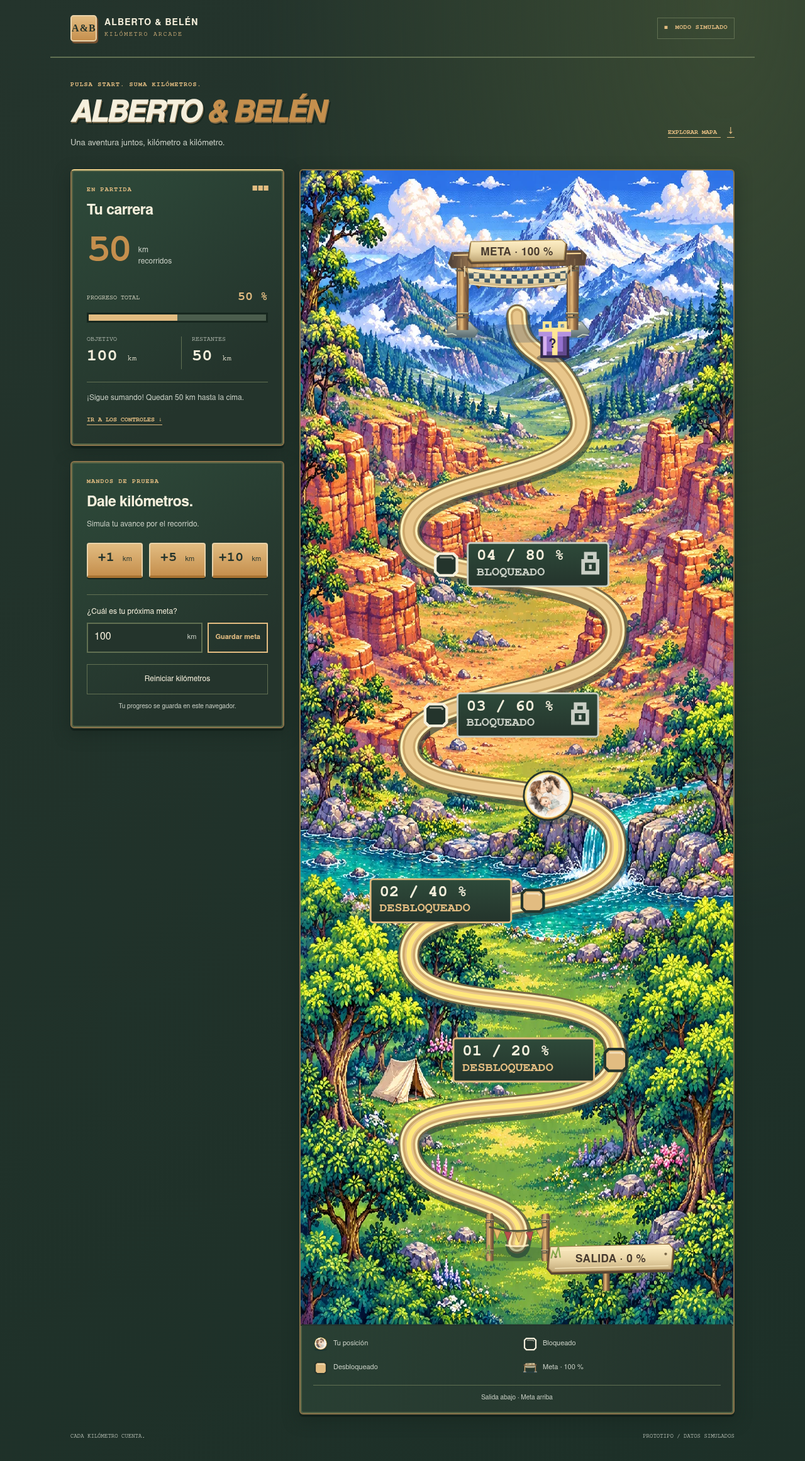
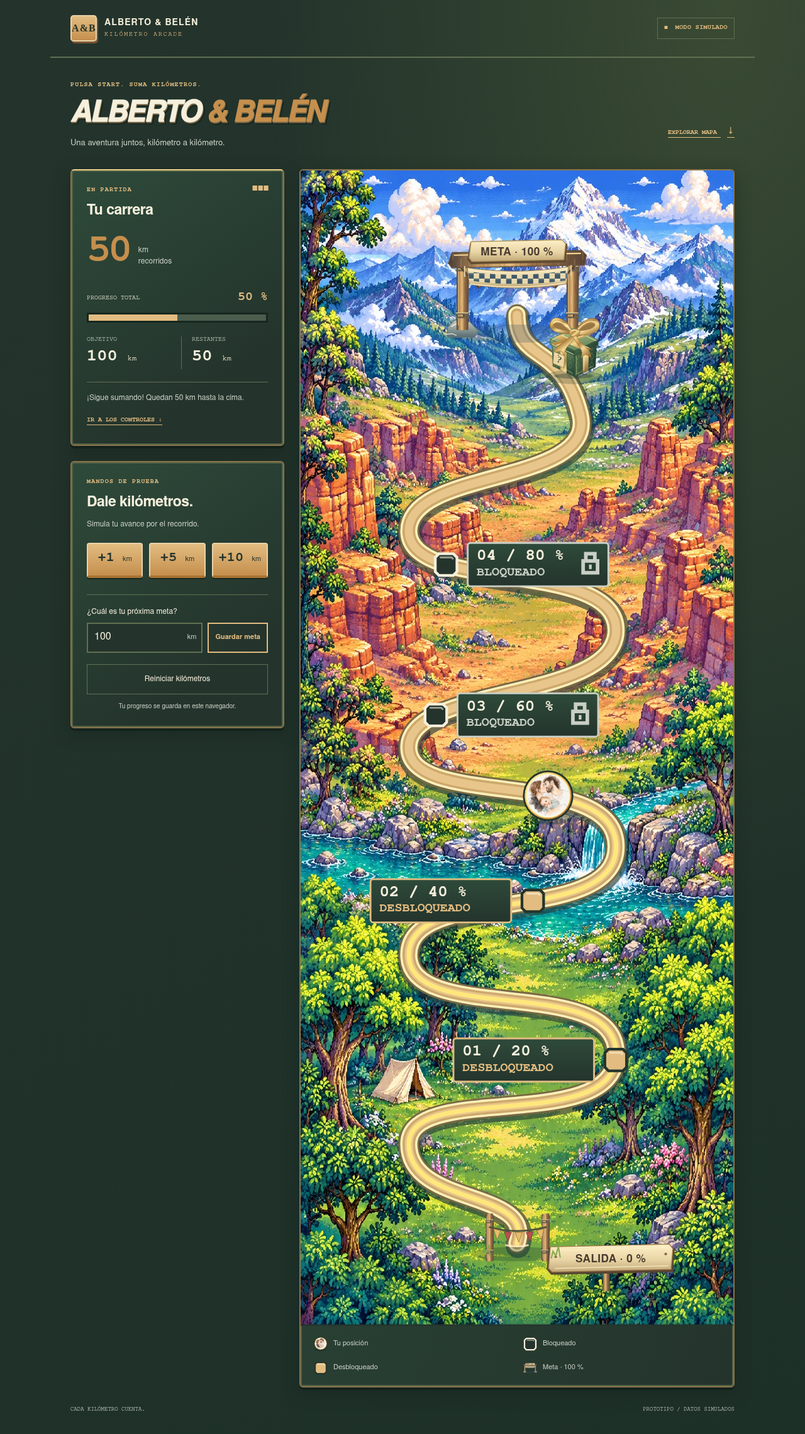
style: enrich mystery gift and simplify map legend

diff --git a/frontend/index.html b/frontend/index.html
@@ -32,6 +32,11 @@
             <linearGradient id="gate-cloth" x2="0" y2="1"><stop stop-color="#fff0c7"/><stop offset=".55" stop-color="#e9d5a6"/><stop offset="1" stop-color="#c1a878"/></linearGradient>
             <pattern id="wood-grain" width="18" height="28" patternUnits="userSpaceOnUse"><path d="M3 0v8l2 6v14M12 0v12l-2 7v9" fill="none" stroke="#493d37" stroke-opacity=".3" stroke-width=".8"/><path d="M7 3v12M16 14v10" stroke="#ffe2a1" stroke-opacity=".3" stroke-width=".7"/></pattern>
             <pattern id="finish-weave" width="12" height="12" patternUnits="userSpaceOnUse"><rect width="12" height="12" fill="#e8d8af"/><path d="M0 0h6v6H0zM6 6h6v6H6z" fill="#405966"/><path d="M0 1h12M0 7h12" stroke="#fff5d6" stroke-opacity=".25" stroke-width=".7"/></pattern>
+            <linearGradient id="gift-front" x2=".25" y2="1"><stop stop-color="#8caa6d"/><stop offset=".45" stop-color="#567b50"/><stop offset="1" stop-color="#2b4b39"/></linearGradient>
+            <linearGradient id="gift-side" x2="1" y2=".6"><stop stop-color="#55754c"/><stop offset="1" stop-color="#203c30"/></linearGradient>
+            <linearGradient id="gift-top" x2=".6" y2="1"><stop stop-color="#bbca8f"/><stop offset="1" stop-color="#648559"/></linearGradient>
+            <linearGradient id="gift-ribbon" x2=".75" y2="1"><stop stop-color="#fff2bc"/><stop offset=".25" stop-color="#e4bd70"/><stop offset=".45" stop-color="#b18440"/><stop offset=".65" stop-color="#f5d993"/><stop offset="1" stop-color="#9b7139"/></linearGradient>
+            <pattern id="gift-brocade" width="8" height="10" patternUnits="userSpaceOnUse"><path d="m4 1 2 4-2 4-2-4z" fill="none" stroke="#e1d797" stroke-width=".5" opacity=".3"/><circle cx="0" cy="0" r=".65" fill="#e1d797" opacity=".4"/></pattern>
             <g id="timber-post"><path d="M-7 0 4-2 7 3 6 80H-7z" fill="url(#gate-timber)"/><path d="M-7 0 4-2 7 3 6 80H-7z" fill="url(#wood-grain)"/><path d="M-5 3v72" stroke="#f9d392" stroke-width="1" opacity=".65"/><path d="M-8 10H7m-15 4H7m-15 48H7m-15 4H7" stroke="#6a6350" stroke-width="2"/><path d="M-8 9H6m-14 52H6" stroke="#e1cf99" stroke-width="1"/><circle cx="1" cy="12" r="1" fill="#403a32"/><circle cx="1" cy="64" r="1" fill="#403a32"/></g>
             <g id="lock"><path d="M-5-3v-7H5v7M-8-2H8v13H-8z" fill="none" stroke="currentColor" stroke-width="4"/><path d="M0 2v5" stroke="currentColor" stroke-width="3"/></g>
             <clipPath id="position-clip" clipPathUnits="userSpaceOnUse"><circle r="24"/></clipPath>
@@ -94,16 +99,38 @@
               <path d="M182 106v12m118-13v12" stroke="#dfcba2" stroke-width="1.5"/>
               <path d="m160 182 8-1 5 2m134 2 6-3 7 1" fill="none" stroke="#d9e0cc" stroke-width="1"/>
             </g>
-            <g id="mystery-gift" transform="translate(282 188)">
-              <ellipse cy="20" rx="20" ry="5" fill="#12233a" opacity=".4"/>
-              <path d="M-16-12h32v32h-32z" fill="#30294c"/>
-              <path d="M-13-8h26v25h-26z" fill="#9471ce"/>
-              <path d="M-13-8h4v25h-4zM-9-8h22v4H-9z" fill="#d5b0f0"/>
-              <path d="M9-4h4v21H9zM-9 13H9v4H-9z" fill="#62498d"/>
-              <path d="M-18-12h36v8h-36z" fill="#b392e0"/>
-              <path d="M-18-12h36v3h-36zM-3-12h6v29h-6z" fill="#ffe694"/>
-              <path d="M-3-12h-9v-7h7v7H5v-7h7v7H3" fill="none" stroke="#ffe694" stroke-width="3"/>
-              <text x="-7" y="9" fill="#30294c" font-size="14" font-weight="bold">?</text>
+            <g id="mystery-gift" transform="translate(303 201)">
+              <ellipse cy="28" rx="31" ry="8" fill="#253b30" opacity=".25"/>
+              <ellipse cy="27" rx="22" ry="3" fill="#1b3028" opacity=".35"/>
+              <!-- Papel con tres caras, brocado y pliegues; el regalo permanece cerrado. -->
+              <path d="m-24-11 25 12v27l-24-12z" fill="url(#gift-front)" stroke="#3d5940" stroke-width=".7"/>
+              <path d="M1 1 25-10 24 17 1 28z" fill="url(#gift-side)" stroke="#294633" stroke-width=".7"/>
+              <path d="m-24-11 25 12v27l-24-12zM1 1 25-10 24 17 1 28z" fill="url(#gift-brocade)"/>
+              <path d="m-21-6 1 20 19 10M3 4v21l18-9" fill="none" stroke="#b5c88a" stroke-width=".65" opacity=".65"/>
+              <path d="m-22 12 6-2M19 15l4-6M-20-5l6 5" stroke="#253f30" stroke-width=".8" opacity=".4"/>
+              <path d="m-15-7 7 3v28l-7-4zM10-3l7-4-1 28-6 3z" fill="url(#gift-ribbon)"/>
+              <path d="M-13-5v24M12-3l-1 24" stroke="#fff0b4" stroke-width=".7" opacity=".85"/>
+              <path d="m-26-14 26-12 27 13L1-1z" fill="url(#gift-top)" stroke="#69815a" stroke-width=".7"/>
+              <path d="m-26-14 27 13v6L-26-8z" fill="url(#gift-front)" stroke="#476342" stroke-width=".6"/>
+              <path d="M1-1 27-13v6L1 5z" fill="url(#gift-side)" stroke="#37543a" stroke-width=".6"/>
+              <path d="m-24-13 24-11 25 12M-24-8 0 3" fill="none" stroke="#d9dda1" stroke-width=".8"/>
+              <path d="m-21-16 7-3L20-3l-7 3zM-19-6l-6-3L13-22l7 3z" fill="url(#gift-ribbon)"/>
+              <path d="m-13-18 30 14M-19-7 16-20" stroke="#fff1b4" stroke-width=".7"/>
+              <path d="M-1-20C-10-9-20-8-22 1l8-2 4 6c-1-11 7-13 13-22" fill="url(#gift-ribbon)" stroke="#9c793d" stroke-width=".6"/>
+              <path d="M2-20C7-6 19-5 19 6l-6-3-5 4c5-10-7-15-9-25" fill="url(#gift-ribbon)" stroke="#9c793d" stroke-width=".6"/>
+              <path d="M0-20C-12-19-29-21-26-32c4-12 20-3 26 12Z" fill="url(#gift-ribbon)" stroke="#96733c" stroke-width=".7"/>
+              <path d="M-4-22c-9-2-18-3-19-8 4-5 13 0 19 8Z" fill="#9b7843"/>
+              <path d="M-23-31c4-6 15 0 20 8" fill="none" stroke="#fff1bd" stroke-width="1"/>
+              <path d="M0-20c6-14 24-23 28-12 4 12-16 16-28 12Z" fill="url(#gift-ribbon)" stroke="#96733c" stroke-width=".7"/>
+              <path d="M5-23c6-7 16-11 19-7-1 5-11 7-19 7Z" fill="#987644"/>
+              <path d="M5-25c6-7 15-11 20-7" fill="none" stroke="#fff1bd" stroke-width="1"/>
+              <ellipse cx="1" cy="-21" rx="6" ry="4" fill="url(#gift-ribbon)" stroke="#aa8344" stroke-width=".6" transform="rotate(-12 1 -21)"/>
+              <path d="M-3-23q4-2 7 0" fill="none" stroke="#fff3bd" stroke-width="1"/>
+              <path d="M-11-7q-6 2-6 8" fill="none" stroke="#d3af6a" stroke-width=".65"/>
+              <path d="m-22 0 12 5-1 13-12-5z" fill="#ecd6a3" stroke="#9a804b" stroke-width=".6"/>
+              <path d="m-21 2 9 4" stroke="#fff2d1" stroke-width=".6"/>
+              <circle cx="-17" cy="4" r=".8" fill="#967646"/>
+              <text x="-17" y="12" text-anchor="middle" fill="#43513a" font-family="Georgia, serif" font-size="10" font-weight="bold" transform="rotate(18 -17 12)">?</text>
             </g>
           </g>
           <g id="checkpoints">
@@ -122,7 +149,6 @@
             <li><svg class="legend-icon legend-unlocked" viewBox="-16 -16 32 32" aria-hidden="true"><use href="#checkpoint-symbol"/></svg><span>Desbloqueado</span></li>
             <li><svg class="legend-icon" viewBox="154 70 174 124" aria-hidden="true"><use href="#finish-gate"/></svg><span>Meta · 100 %</span></li>
           </ul>
-          <p class="map-orientation">Salida abajo · Meta arriba</p>
         </div>
       </section>
       <section class="progress-card" aria-labelledby="progress-heading">

diff --git a/frontend/css/style.css b/frontend/css/style.css
@@ -75,7 +75,6 @@ progress::-moz-progress-bar { background: var(--accent); }
 .map-legend { display: grid; grid-template-columns: repeat(2, minmax(0, 1fr)); gap: 12px 18px; list-style: none; margin: 0; padding: 0; }
 .map-legend li { display: flex; align-items: center; gap: 8px; }
 .legend-icon { display: block; width: 24px; height: 26px; flex-shrink: 0; }
-.map-orientation { border-top: 1px solid var(--line); padding-top: 12px; margin: 14px 0 0; text-align: center; font-size: 10px; }
 .simulation-card { grid-area: sim; padding: 24px; background: linear-gradient(145deg, #2e4a3a, #24342c 75%); }
 .simulation-card .eyebrow { color: var(--accent); }
 .hint { color: var(--muted); font-size: 12px; line-height: 1.6; margin: 10px 0 18px; }

diff --git a/README.md b/README.md
@@ -38,12 +38,12 @@ La dirección del proyecto es <https://albertoybelen.ddev.site/frontend/>.
 - **Explorar mapa** lleva al recorrido completo. La salida está abajo y la meta
   arriba: desplázate por bosque, río, cañón y montaña desde el primer día.
 - El paisaje aparece directamente, sin cabecera. La leyenda inferior reutiliza
-  los símbolos del mapa para posición, checkpoint bloqueado/desbloqueado y meta,
-  y recuerda la orientación del recorrido.
+  los símbolos del mapa para posición, checkpoint bloqueado/desbloqueado y meta.
 - Los checkpoints del 20/40/60/80 % cambian de **BLOQUEADO** a **DESBLOQUEADO**
   al alcanzar su porcentaje. Sus posiciones se calculan sobre el mismo trazado
   que el indicador. Cambiar la meta o reiniciar recalcula todos sus estados.
-- La meta al 100 % tiene un arco y un regalo misterioso decorativo. Los hitos
+- La meta al 100 % tiene un arco y un regalo misterioso decorativo con perspectiva,
+  papel verde con brocado y lazo dorado. Los hitos
   no abren contenido: fotografías, premio y celebración quedan para otras issues.
 - La salida y el arco de meta usan madera con vetas, tela, piedra y sombras,
   dibujadas en SVG para integrarse con el paisaje de 16 bits.
